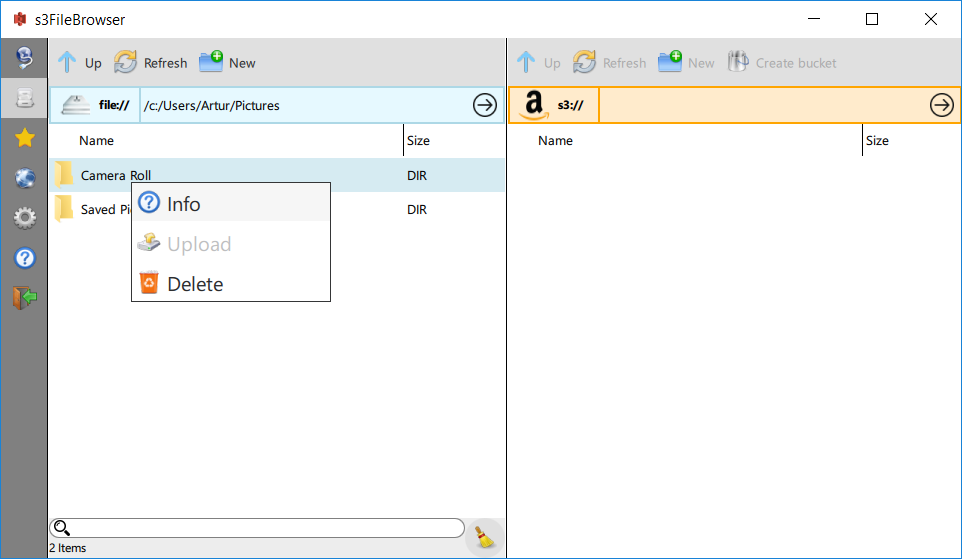
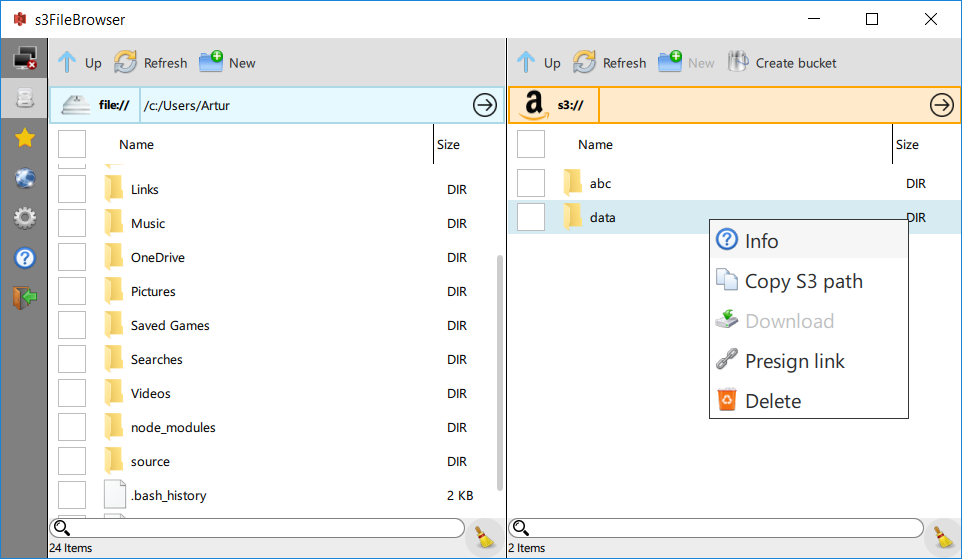
Develop (#44)
* Download and upload of selected files is working

* AppVeyor: disabled copying of not used x64 binaries

* Set default QT_FONT_DPI=96 in snap

* Updated windows screenshots

diff --git a/qml/S3ObjectDelegate.qml b/qml/S3ObjectDelegate.qml
@@ -67,6 +67,14 @@ Rectangle {
             id: check
             anchors.verticalCenter: parent.verticalCenter
             rightPadding: 10
+
+            onCheckedChanged: {
+                if(checked) {
+                    s3_browser.multiSelectItems += 1
+                } else {
+                    s3_browser.multiSelectItems -= 1
+                }
+            }
         }
 
         Image {
@@ -132,11 +140,24 @@ Rectangle {
             }
         }
         MenuItem {
+            id: downloadMenuItem
             icon.source: "qrc:icons/32_download_icon.png"
             icon.color: "transparent"
             enabled: connected && s3Model.canDownload()
             text: qsTr('Download') + tsMgr.emptyString
             onClicked: { download() }
+        }
+        MenuItem {
+            visible: multiSelectItems > 1
+            height: (multiSelectItems > 1) ? downloadMenuItem.height : 0
+            icon.source: "qrc:icons/32_download_icon.png"
+            icon.color: "transparent"
+            enabled: connected && s3Model.canDownload()
+            text: qsTr('Download') + " " + multiSelectItems + " " + qsTr("items") + tsMgr.emptyString
+            onClicked: {
+                dlDialog.msg = qsTr('Download') + " " + multiSelectItems + " " + qsTr("items") + tsMgr.emptyString + " ?"
+                dlDialog.open()
+            }
         }
         MenuItem {
             icon.source: "qrc:icons/32_endpoint_icon.png"
@@ -159,11 +180,23 @@ Rectangle {
             onClicked: {
                 if(!ftModel.isTransferring()) {
                     var fileName = s3Model.getItemNameQML(view.currentIndex)
-                    msgDialog.msg = qsTr("Remove ") + fileName + " ?"
-                    msgDialog.open()
+                    delDialog.msg = qsTr("Remove ") + fileName + " ?"
+                    delDialog.open()
                 } else {
                     s3Error.visible = true
                 }
+            }
+        }
+        MenuItem {
+            visible: multiSelectItems > 1
+            height: (multiSelectItems > 1) ? downloadMenuItem.height : 0
+            icon.source: "qrc:icons/32_delete_icon.png"
+            icon.color: "transparent"
+            enabled: connected && !ftModel.isTransferring()
+            text: qsTr('Delete') + " " + multiSelectItems + " " + qsTr("items") + tsMgr.emptyString
+            onClicked: {
+                delDialog.msg = qsTr('Delete') + " " + multiSelectItems + " " + qsTr("items") + tsMgr.emptyString + " ?"
+                delDialog.open()
             }
         }
     }
@@ -196,9 +229,6 @@ Rectangle {
             if (mouse.button === Qt.RightButton) {
                 contextMenu.popup()
             } else {
-                if(check.pressed) {
-                    check.toggle()
-                }
             }
         }
 

diff --git a/qml/FileDelegate.qml b/qml/FileDelegate.qml
@@ -34,6 +34,14 @@ Rectangle {
             id: check
             anchors.verticalCenter: parent.verticalCenter
             rightPadding: 10
+
+            onCheckedChanged: {
+                if(checked) {
+                    browser.multiSelectItems += 1
+                } else {
+                    browser.multiSelectItems -= 1
+                }
+            }
         }
 
         Image {
@@ -97,6 +105,7 @@ Rectangle {
             }
         }
         MenuItem {
+            id: uploadMenuItem
             icon.source: "qrc:icons/32_upload_icon.png"
             icon.color: "transparent"
             enabled: connected
@@ -104,13 +113,36 @@ Rectangle {
             onClicked: { upload() }
         }
         MenuItem {
+            visible: multiSelectItems > 1
+            height: (multiSelectItems > 1) ? uploadMenuItem.height : 0
+            icon.source: "qrc:icons/32_upload_icon.png"
+            icon.color: "transparent"
+            enabled: connected
+            text: qsTr('Upload') + " " + multiSelectItems + " " + qsTr("items") + tsMgr.emptyString
+            onClicked: {
+                uploadDialog.msg = qsTr('Upload') + " " + multiSelectItems + " " + qsTr("items") + tsMgr.emptyString + " ?"
+                uploadDialog.open()
+            }
+        }
+        MenuItem {
             icon.source: "qrc:icons/32_delete_icon.png"
             icon.color: "transparent"
             text: qsTr('Delete') + tsMgr.emptyString
             onClicked: {
                 var fileName = folder.get(view.currentIndex, "fileName")
-                msgDialog.msg = qsTr("Remove ") + fileName + " ?"
-                msgDialog.open()
+                delDialog.msg = qsTr("Remove ") + fileName + " ?"
+                delDialog.open()
+            }
+        }
+        MenuItem {
+            visible: multiSelectItems > 1
+            height: (multiSelectItems > 1) ? uploadMenuItem.height : 0
+            icon.source: "qrc:icons/32_delete_icon.png"
+            icon.color: "transparent"
+            text: qsTr('Delete') + " " + multiSelectItems + " " + qsTr("items") + tsMgr.emptyString
+            onClicked: {
+                delDialog.msg = qsTr('Delete') + " " + multiSelectItems + " " + qsTr("items") + tsMgr.emptyString + " ?"
+                delDialog.open()
             }
         }
     }

diff --git a/qml/FileBrowser.qml b/qml/FileBrowser.qml
@@ -27,12 +27,56 @@ Item {
     width: 300
     property alias path: view.path
     property bool connected: false
+    property int multiSelectItems: 0
 
-    property CustomMessageDialog msgDialog: CustomMessageDialog {
-        win_title: qsTr("Remove?")
+    function uploadMultiple() {
+        var checkboxIdx = 0
+        for(var child in view.contentItem.children) {
+            if(view.contentItem.children[child] instanceof FileDelegate) {
+                var checkbox = view.contentItem.children[child].children[0].children[0]
+                if(checkbox.checked) {
+                    var fileName = folder.get(checkboxIdx, "fileName")
+                    var s3path = "s3://" + s3Model.getS3PathQML() + fileName
+                    var localPath = folder.get(checkboxIdx, "filePath")
+                    // upload in progress, add transfer to queue
+                    ftModel.addTransferToQueueQML(fileName, localPath, s3path)
+                }
+                checkboxIdx += 1
+            }
+        }
+    }
+
+    function deleteMultiple() {
+        for(var child in view.contentItem.children) {
+            if(view.contentItem.children[child] instanceof FileDelegate) {
+                var checkbox = view.contentItem.children[child].children[0].children[0]
+                if(checkbox.checked) {
+
+                }
+            }
+        }
+    }
+
+    property CustomMessageDialog delDialog: CustomMessageDialog {
+        win_title: qsTr("Remove ?")
         yesAction: function() {
-            var filePath = folder.get(view.currentIndex, "filePath")
-            fsModel.removeQML(filePath);
+            if(multiSelectItems <= 1) {
+                var filePath = folder.get(view.currentIndex, "filePath")
+                fsModel.removeQML(filePath);
+                multiSelectItems -= 1
+            } else {
+                deleteMultiple()
+                multiSelectItems = 0
+            }
+        }
+    }
+
+    property CustomMessageDialog uploadDialog: CustomMessageDialog {
+        win_title: qsTr("Upload ?")
+        yesAction: function() {
+            if(multiSelectItems > 1) {
+                uploadMultiple()
+            }
         }
     }
 

diff --git a/qml/S3Browser.qml b/qml/S3Browser.qml
@@ -30,11 +30,54 @@ Item {
     property alias path: view.path
     property bool connected: false
     property string footerText: ""
+    property int multiSelectItems: 0
 
-    property CustomMessageDialog msgDialog: CustomMessageDialog {
+    function downloadMultiple() {
+        var checkboxIdx = 0
+        for(var child in view.contentItem.children) {
+            if(view.contentItem.children[child] instanceof S3ObjectDelegate) {
+                var checkbox = view.contentItem.children[child].children[0].children[0]
+                if(checkbox.checked) {
+                    var fileName = s3Model.getItemNameQML(checkboxIdx)
+                    var s3path = "s3://" + s3Model.getS3PathQML() + fileName
+
+                    var path = s3Model.getFileBrowserPath()
+                    var localPath = "file://" + path + fileName
+                    ftModel.addTransferToQueueQML(fileName, s3path, localPath)
+                }
+                checkboxIdx +=1
+            }
+        }
+    }
+
+    function deleteMultiple() {
+        for(var child in view.contentItem.children) {
+            if(view.contentItem.children[child] instanceof S3ObjectDelegate) {
+                var checkbox = view.contentItem.children[child].children[0].children[0]
+                if(checkbox.checked) {
+
+                }
+            }
+        }
+    }
+
+    property CustomMessageDialog delDialog: CustomMessageDialog {
         win_title: qsTr("Remove ?")
         yesAction: function() {
-            s3Model.removeQML(view.currentIndex);
+            if(multiSelectItems <= 1) {
+                s3Model.removeQML(view.currentIndex);
+            } else {
+                deleteMultiple()
+            }
+        }
+    }
+
+    property CustomMessageDialog dlDialog: CustomMessageDialog {
+        win_title: qsTr("Download ?")
+        yesAction: function() {
+            if(multiSelectItems > 1) {
+                downloadMultiple()
+            }
         }
     }
 

diff --git a/qml/AboutPanel.qml b/qml/AboutPanel.qml
@@ -73,7 +73,7 @@ Item {
             Text {
                 x: 20
                 y: 10
-                text: qsTr("Version: ") + "1.0.13" + tsMgr.emptyString
+                text: qsTr("Version: ") + "1.0.14" + tsMgr.emptyString
                 verticalAlignment: Text.AlignVCenter
                 font.pointSize: getSmallFontSize()
                 height: 40
